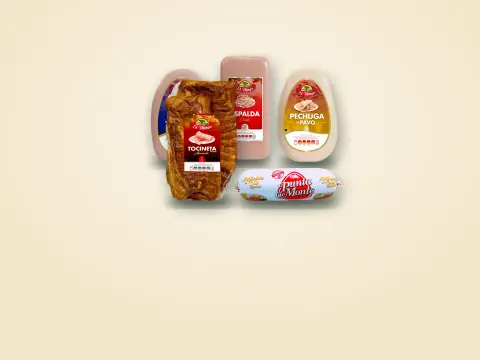
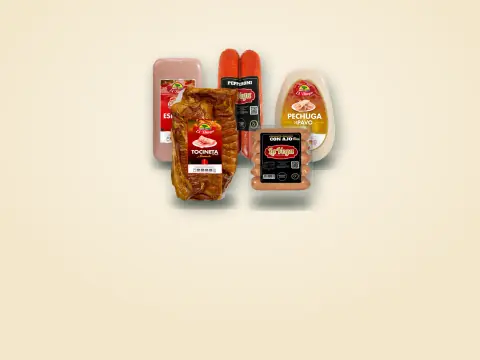
La web en www.comercializadoravillareal.com, y una cabecera de tres productos con lo de La Vega.
El dominio propio se compró hoy en Vercel: negocio.web ya es
https://www.comercializadoravillareal.com (enlaces, mapa del sitio, vistas
previas). La dirección de antes sigue abriendo la misma web sin redirigir.

La cabecera de la portada lleva solo tres productos, grandes: la tocineta,
la mozzarella y el pepperoni de La Vega («vas a terminar poniendo todos
los productos»). Embutidos y Pizzería llevan lo de La Vega (pepperoni y
chorizos); Embutidos y Lácteos, sin lo que ya no está en la web.

Changed region(s): [[0.3125, 0.1222, 0.7188, 0.6111]]

diff --git a/scripts/fotos-web.ts b/scripts/fotos-web.ts
@@ -30,7 +30,10 @@ const ORO = "#f0c24f";
 const CREMA = "#f3e7cc";
 
 const ESCENAS: Escena[] = [
-  // La de arriba, en la pantalla ancha: el texto va a la izquierda, sobre el verde; los productos, a la derecha.
+  // La de arriba, en la pantalla ancha: el texto va a la izquierda, sobre el verde; los productos, a la derecha. Solo
+  // tres, los de siempre de una hamburguesería y una pizzería (la mozzarella, la tocineta y el pepperoni), grandes: el
+  // dueño, 18/11/2026: «lo que no me mata es la cabecera principal, porque vas a terminar poniendo todos los productos».
+  // Lo demás sale en la foto de su familia; aquí no se añade nada más.
   {
     archivo: "public/portada/heroe.webp",
     ancho: 1920,
@@ -38,17 +41,12 @@ const ESCENAS: Escena[] = [
     fondo: VERDE_HONDO,
     luz: "rgba(240, 194, 79, 0.30)",
     piezas: [
-      // La tocineta, delante y más grande que el jamón, como es (el dueño, 15/11/2026); el jamón de pierna, que quedaba
-      // tapado detrás de ella, sale en la del teléfono y en Embutidos.
-      { foto: "queso-amarillo-vallecito", x: 0.7, apoyo: 0.76, alto: 0.5 },
-      { foto: "jamon-de-espalda", x: 0.81, apoyo: 0.77, alto: 0.47 },
-      { foto: "tocineta", x: 0.555, apoyo: 0.93, alto: 0.56 },
-      { foto: "mozzarella", x: 0.665, apoyo: 0.92, alto: 0.31 },
-      { foto: "queso-amarillo", x: 0.775, apoyo: 0.93, alto: 0.42 },
-      { foto: "pecorino-sortilegio", x: 0.88, apoyo: 0.94, alto: 0.26 },
+      { foto: "tocineta", x: 0.625, apoyo: 0.88, alto: 0.6 },
+      { foto: "pepperoni-la-vega", x: 0.815, apoyo: 0.88, alto: 0.66 },
+      { foto: "mozzarella", x: 0.72, apoyo: 0.95, alto: 0.36 },
     ],
   },
-  // En el teléfono: los productos arriba, en el centro; abajo, el verde donde monta el título.
+  // En el teléfono: los mismos tres arriba, en el centro; abajo, el verde donde monta el título.
   {
     archivo: "public/portada/heroe-movil.webp",
     ancho: 900,
@@ -56,13 +54,9 @@ const ESCENAS: Escena[] = [
     fondo: VERDE_HONDO,
     luz: "rgba(240, 194, 79, 0.32)",
     piezas: [
-      { foto: "jamon-de-pierna", x: 0.36, apoyo: 0.58, alto: 0.35 },
-      { foto: "queso-amarillo-vallecito", x: 0.57, apoyo: 0.57, alto: 0.42 },
-      { foto: "jamon-de-espalda", x: 0.79, apoyo: 0.58, alto: 0.4 },
-      { foto: "tocineta", x: 0.18, apoyo: 0.75, alto: 0.47 },
-      { foto: "mozzarella", x: 0.42, apoyo: 0.75, alto: 0.25 },
-      { foto: "queso-amarillo", x: 0.63, apoyo: 0.76, alto: 0.35 },
-      { foto: "pecorino-sortilegio", x: 0.85, apoyo: 0.77, alto: 0.2 },
+      { foto: "tocineta", x: 0.33, apoyo: 0.7, alto: 0.56 },
+      { foto: "pepperoni-la-vega", x: 0.68, apoyo: 0.7, alto: 0.62 },
+      { foto: "mozzarella", x: 0.5, apoyo: 0.77, alto: 0.31 },
     ],
   },
   // Las familias y las colecciones, en 4:3. La misma foto sale en la tarjeta (cuadrada en el teléfono, apaisada en la
@@ -89,12 +83,14 @@ const ESCENAS: Escena[] = [
     fondo: CREMA,
     luz: "rgba(255, 255, 255, 0.6)",
     alturaDeLaLuz: 0.36,
+    // Desde el 18/11/2026, con lo de La Vega (el pepperoni y el chorizo con ajo) y sin lo que ya no está en la web (la
+    // mortadela Punta de Monte).
     piezas: [
-      { foto: "jamon-de-pierna", x: 0.38, apoyo: 0.45, alto: 0.26 },
-      { foto: "jamon-de-espalda", x: 0.51, apoyo: 0.445, alto: 0.29 },
-      { foto: "pechuga-de-pavo-drago", x: 0.64, apoyo: 0.45, alto: 0.26 },
-      { foto: "tocineta", x: 0.42, apoyo: 0.56, alto: 0.34 },
-      { foto: "mortadela-punta-de-monte", x: 0.6, apoyo: 0.56, alto: 0.095, giro: -90 },
+      { foto: "jamon-de-espalda", x: 0.37, apoyo: 0.45, alto: 0.29 },
+      { foto: "pepperoni-la-vega", x: 0.5, apoyo: 0.445, alto: 0.31 },
+      { foto: "pechuga-de-pavo-drago", x: 0.635, apoyo: 0.45, alto: 0.26 },
+      { foto: "tocineta", x: 0.425, apoyo: 0.56, alto: 0.32 },
+      { foto: "chorizo-ajo-la-vega", x: 0.585, apoyo: 0.565, alto: 0.22 },
     ],
   },
   {
@@ -105,9 +101,9 @@ const ESCENAS: Escena[] = [
     luz: "rgba(240, 194, 79, 0.28)",
     alturaDeLaLuz: 0.36,
     piezas: [
-      { foto: "suero-guaralact", x: 0.38, apoyo: 0.52, alto: 0.36 },
-      { foto: "suero-cremoso-guaralact", x: 0.5, apoyo: 0.535, alto: 0.35 },
-      { foto: "suero-san-pedro", x: 0.62, apoyo: 0.545, alto: 0.27 },
+      // Sin el San Pedro desde el 18/11/2026: ya no está en la web.
+      { foto: "suero-guaralact", x: 0.43, apoyo: 0.52, alto: 0.36 },
+      { foto: "suero-cremoso-guaralact", x: 0.575, apoyo: 0.535, alto: 0.35 },
     ],
   },
   {
@@ -141,11 +137,13 @@ const ESCENAS: Escena[] = [
     fondo: ORO,
     luz: "rgba(255, 248, 225, 0.55)",
     alturaDeLaLuz: 0.36,
+    // Desde el 18/11/2026, con el pepperoni y el chorizo ahumado de La Vega.
     piezas: [
-      { foto: "jamon-de-espalda", x: 0.39, apoyo: 0.47, alto: 0.32 },
-      { foto: "jamon-ahumado", x: 0.59, apoyo: 0.47, alto: 0.31 },
-      { foto: "mozzarella", x: 0.45, apoyo: 0.555, alto: 0.22 },
-      { foto: "pecorino-sortilegio", x: 0.61, apoyo: 0.56, alto: 0.18 },
+      { foto: "pepperoni-la-vega", x: 0.385, apoyo: 0.47, alto: 0.34 },
+      { foto: "jamon-de-espalda", x: 0.52, apoyo: 0.465, alto: 0.31 },
+      { foto: "chorizo-ahumado-la-vega", x: 0.65, apoyo: 0.47, alto: 0.25 },
+      { foto: "mozzarella", x: 0.45, apoyo: 0.56, alto: 0.22 },
+      { foto: "pecorino-sortilegio", x: 0.6, apoyo: 0.565, alto: 0.18 },
     ],
   },
   // Lo que todavía no tiene mercancía con foto: el color con el león, sin fotos de internet.

diff --git a/src/config/negocio.ts b/src/config/negocio.ts
@@ -14,10 +14,12 @@ export const negocio = {
   descripcion:
     "Todo para tu hamburguesería, pizzería o restaurante, al mayor y a precios especiales por volumen: quesos, huevos y más. Tienda física en el centro de Barquisimeto.",
 
-  // La dirección de la web. Si se compra un dominio propio, se cambia aquí y
-  // con ella cambian los enlaces que se comparten, el mapa del sitio y las
-  // vistas previas de WhatsApp.
-  web: "https://villareal-green.vercel.app",
+  // La dirección de la web: con ella se hacen los enlaces que se comparten, el
+  // mapa del sitio y las vistas previas de WhatsApp. El dominio propio se
+  // compró el 18/11/2026 en Vercel (sin www lleva a www); la dirección de
+  // antes, villareal-green.vercel.app, sigue abriendo la misma web, así que
+  // los enlaces ya mandados (cuentas, la lista de la familia, el banco) valen.
+  web: "https://www.comercializadoravillareal.com",
 
   // Con código de país y sin el cero inicial: 0424-6343236 → 58424...
   whatsapp: "584246343236",

diff --git a/README.md b/README.md
@@ -1703,6 +1703,11 @@ Binance y otro.
   la dirección y la ubicación para el próximo pedido. Las cuentas, con
   pruebas, en `src/lib/delivery.ts`; la portada, «Cómo comprar» y el pie
   dicen que hay delivery.
+- **La cabecera de la portada, solo tres productos** (el dueño, 18/11/2026:
+  «lo que no me mata es la cabecera principal, porque vas a terminar
+  poniendo todos los productos»): la tocineta, la mozzarella y el pepperoni
+  de La Vega, grandes. No se le añade nada más: cada producto sale en la foto
+  de su familia (Embutidos y Pizzería llevan lo de La Vega).
 - **Las fotos** de la portada y de las familias (desde el 15/11/2026, sin el
   Kemmental, que no se vende: va el Mi Vallecito; y la tocineta más grande
   que los jamones, como es) son, desde el 13/11/2026,
@@ -1787,9 +1792,16 @@ Binance y otro.
   instrucciones para Android y iPhone están en `/admin/app`. No hay app de
   tienda: publicarla en Google Play o en la App Store cuesta dinero y no
   añade nada que esto no haga.
-- La dirección de la web está en `src/config/negocio.ts` (`web`). Con un
-  dominio propio se cambia ahí y cambian los enlaces, el mapa del sitio y
-  las vistas previas.
+- **El dominio**: https://www.comercializadoravillareal.com, comprado el
+  18/11/2026 en Vercel (Settings → Domains; sin www lleva a www). Está en
+  `src/config/negocio.ts` (`web`), y con él se hacen los enlaces, el mapa
+  del sitio y las vistas previas. La dirección de antes,
+  villareal-green.vercel.app, sigue abriendo la misma web sin redirigir:
+  los enlaces ya mandados (cuentas, la lista de la familia, el atajo del
+  banco) siguen valiendo. El panel puesto como app en el teléfono, sus
+  avisos y su sesión son de la dirección en que se abrió: para pasarlos al
+  dominio, entrar al panel por él, ponerlo otra vez en la pantalla de
+  inicio y volver a activar los avisos.
 - **Fechas.** En Vercel el servidor va en hora UTC. Las fechas que propone
   el panel y las que se enseñan son las de Venezuela (UTC−4), esté donde
   esté el servidor.
@@ -1955,7 +1967,6 @@ Binance y otro.
   en este teléfono», con el panel puesto en la pantalla de inicio).
 - Poner `ANTHROPIC_API_KEY` en Vercel y en `.env.local` para que las
   fotos de las notas se lean solas. Sin ella, la foto se guarda sin más.
-- Un dominio propio.
 - Para facturar de verdad: elegir con el contador la
   imprenta digital autorizada (y entonces integrarla para que asigne el
   número de control sola) y confirmar con él qué productos están exentos.

diff --git a/public/familias/CREDITOS.md b/public/familias/CREDITOS.md
@@ -8,8 +8,11 @@ ver `publicidad/fotos/CREDITOS.md`. La única que no es suya es la del medio car
 «Eggs, hen's egg», de Pixabay, https://pixabay.com/photos/egg-2913054/ (licencia de contenido de Pixabay: uso libre, también
 comercial, sin atribución).
 
-- `portada/heroe.webp`, `portada/heroe-movil.webp`: jamón de pierna, espalda, tocineta y pechuga de pavo El Drago, queso
-  amarillo Kemmental, queso cheddar El Legado, mozzarella y pecorino Sortilegio, sobre verde.
+- `portada/heroe.webp`, `portada/heroe-movil.webp`: desde el 18/11/2026, solo tres productos, grandes: la tocineta El
+  Drago, la mozzarella y el pepperoni de La Vega (foto de la web de La Vega, ver `publicidad/fotos/CREDITOS.md`), sobre
+  verde. El dueño no quería una cabecera con todos los productos; lo demás sale en la foto de su familia.
+- `familias/embutidos.webp` y `familias/pizzeria.webp` llevan también lo de La Vega (el pepperoni y un chorizo), con las
+  fotos de La Vega Alimentos.
 - `familias/quesos.webp`, `embutidos.webp`, `lacteos.webp`, `huevos.webp`, `burger.webp`, `pizzeria.webp`: los productos de
   cada una, sobre oro, crema o verde.
 - `familias/salsas-y-aderezos.webp`, `papas-y-congelados.webp`, `bebidas.webp`, `complementos-gastronomicos.webp`,

diff --git a/publicidad/fotos/CREDITOS.md b/publicidad/fotos/CREDITOS.md
@@ -4,8 +4,14 @@ Las fotos de los productos son las que manda el dueño (los paquetes de su merca
 subió a la web del negocio. `quitar-fondo.mjs` las deja en esta carpeta sin fondo; las originales
 quedan en `originales/`.
 
-La única que no es suya:
+Las que no son suyas:
 
 - `huevos.png` (medio cartón de huevos): «Eggs, hen's egg», de Pixabay,
   https://pixabay.com/photos/egg-2913054/ · licencia de contenido de Pixabay (uso libre, también
   comercial, sin atribución).
+- `chorizo-ajo-la-vega.png`, `chorizo-ahumado-la-vega.png`, `salchicha-picante-la-vega.png`: las
+  fotos de producto de La Vega Alimentos, que el dueño (que la distribuye) dejó en
+  `PRODUCTOS EN PNG/` el 18/11/2026; aquí, recortadas al paquete.
+- `pepperoni-la-vega.png`: la foto del pepperoni de la web de La Vega Alimentos
+  (https://lavegaalimentos.com/productos/), sin la bandeja; el dueño pidió «una foto que sí» tenga
+  etiqueta para el pepperoni estándar, que sale de producción sin ella.
